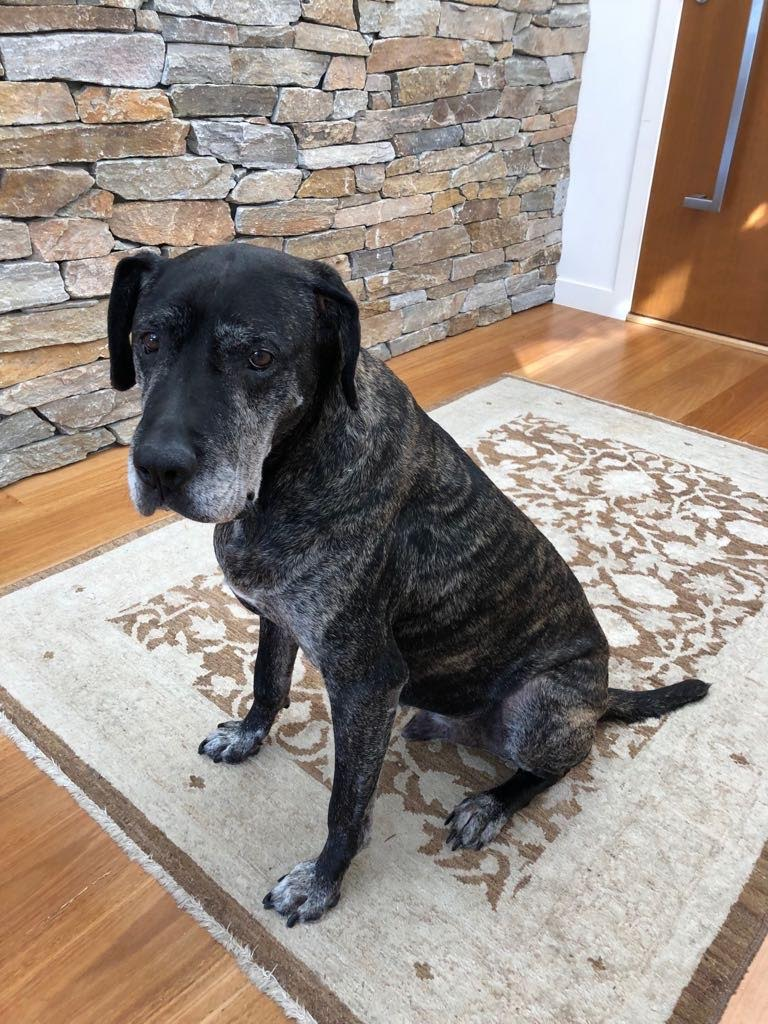
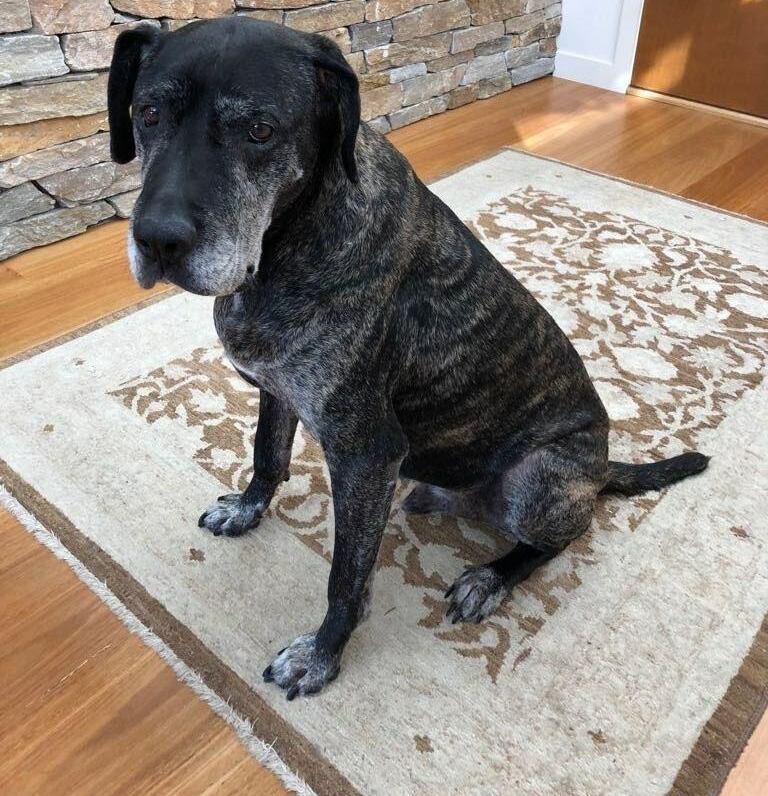
updating photos

diff --git a/styles.css b/styles.css
@@ -76,19 +76,19 @@ body {
   text-align: center;
   justify-content: flex-end;
   position: relative;
-  width: 1500px;
+  width: 1200px;
   overflow: hidden;
 }
 .Hero_image {
   background-color: white;
   background-size: cover;
   background-position: center;
-  width: 100%;
+  width: 1200px;
   position: absolute;
   top: 0;
   left: 0;
   z-index: 1;
-  opacity: 0.6;
+  opacity: 0.8;
   overflow: hidden;
 }
 .photo_frame {
@@ -104,12 +104,11 @@ body {
 .little_photo {
   border-radius: 150px;
   background: url('images/Bed_shot.jpeg');
-  width: 200px;
+  width: 220px;
   top: 0;
   left: 0;
   background-size: cover;
   display: flex;
-  margin-bottom: 17px;
 
 }
 .faded_box {
@@ -209,15 +208,15 @@ p {
   display: inline-block;
 }
 .futhur_info {
-  background-color: #CCE7FF;
+  background-color: pink;
   padding: 60px 20px;
 }
 .image_frame {
   display: inline-block;
-  background-color: #CCE7FF;
-  border-bottom: 8px #CCE7FF solid;
-  border-right: 10px #CCE7FF solid;
-  border-top: 4px #CCE7FF solid;
+  background-color: pink;
+  border-bottom: 8px pink solid;
+  border-right: 10px pink solid;
+  border-top: 4px pink solid;
   padding: 0px;
   margin: 0px;
   border-radius: 5px;
@@ -317,12 +316,15 @@ p {
   }
   .big_photo {
     float: left;
-    width: 60%;
+    width: 80%;
+  }
+  .Hero_image {
+    width:1200px;
   }
   .about_me {
     float: left;
     padding: 40px;
-    width: 40%;
+    width: 20%;
   }
   .nav_item {
     width: 25%;

diff --git a/pet_1.html b/pet_1.html
@@ -43,7 +43,7 @@
       </div>
       <div class="big_photo">
         <div class="Hero_image">
-          <img src="images/Hero_image.jpg" alt="Prince and Lady" />
+          <img src="images/Cute.jpg" alt="Prince and Lady"/>
         </div>
         <div class="faded_box">
           <div class="sub_text">Hello, We are</div>
@@ -54,7 +54,7 @@
       <div class="about_me">
         <div class="about_me_wrapper">
           <div class="photo_frame">
-            <img class="little_photo" src="images/Bed_shot.jpeg" alt="bed shot" />
+            <img class="little_photo" src="images/Fireplace_cropped.jpg" alt="bed shot"/>
           </div>
           <div class="info">
             <div class = "sub_headings">Prince and Lady</div>
@@ -143,7 +143,7 @@
       </div>
       <div class="last_photo">
         <div class="image_frame">
-          <img src="images/Fireplace.jpeg" alt="dogs sleeping" class="pictures">
+          <img src="images/Fireplace.jpg" alt="dogs sleeping" class="pictures">
         </div>
       </div>
       <div class="parting_message">

diff --git a/Pet_2.html b/Pet_2.html
@@ -43,7 +43,7 @@
       </div>
       <div class="big_photo">
         <div class="Hero_image">
-          <img src="images/Ned-Big_tongue.jpeg" alt="Ned"/>
+          <img src="images/Ned-Rug.jpeg" alt="Ned"/>
         </div>
         <div class="faded_box">
           <div class="sub_text">Hello, I am</div>
@@ -112,7 +112,7 @@
               </p>
               <div class="sub_headings">Interests</div>
               <div class="sub_text">What Ned does for fun</div>
-              <p> Ned enjoys walks, treats, pats, snoozes and a healthy dose of cuddles everyday. 
+              <p> Ned enjoys walks, treats, pats, snoozes and a healthy dose of cuddles everyday.
               </p>
             </section>
           </div>
@@ -124,7 +124,7 @@
       </div>
       <div class="last_photo">
         <div class="image_frame">
-          <img src="images/Ned-Rug.jpeg" alt="dogs sleeping" class="pictures">
+          <img src="images/Ned-Standing.jpeg" alt="dogs sleeping" class="pictures">
         </div>
       </div>
       <div class="parting_message">

diff --git a/index.html b/index.html
@@ -17,16 +17,14 @@
     </header>
     <div class="tiles">
       <a href="pet_1.html" class="pet">
-        <img src="images/Hero_image.jpg" alt="Prince and Lady, too very fine pups" />
+        <img src="images/Cute.jpg" alt="Prince and Lady, too very fine pups" />
         <div class="content">
           <p>Prince and Lady</p>
           <span>Prince and Lady are both Cavalier King Charles Spaniel dogs and are litter twins. </span>
         </div>
       </a>
       <a href="Pet_2.html" class="pet">
-        <div class="pet ned">
-          <img src="images/Ned-Big_tongue.jpeg" alt="Ned the very good boy" />
-        </div>
+          <img src="images/Ned-Teddy-open.jpeg" alt="Ned the very good boy" />
         <div class="content">
           <p>Ned</p>
           <span>This very good boy is an 11 year old mastiff x staffy who is the best dog in the world. He is a people person and is happiest in the company of those who love him and provide never-ending pats.</span>
